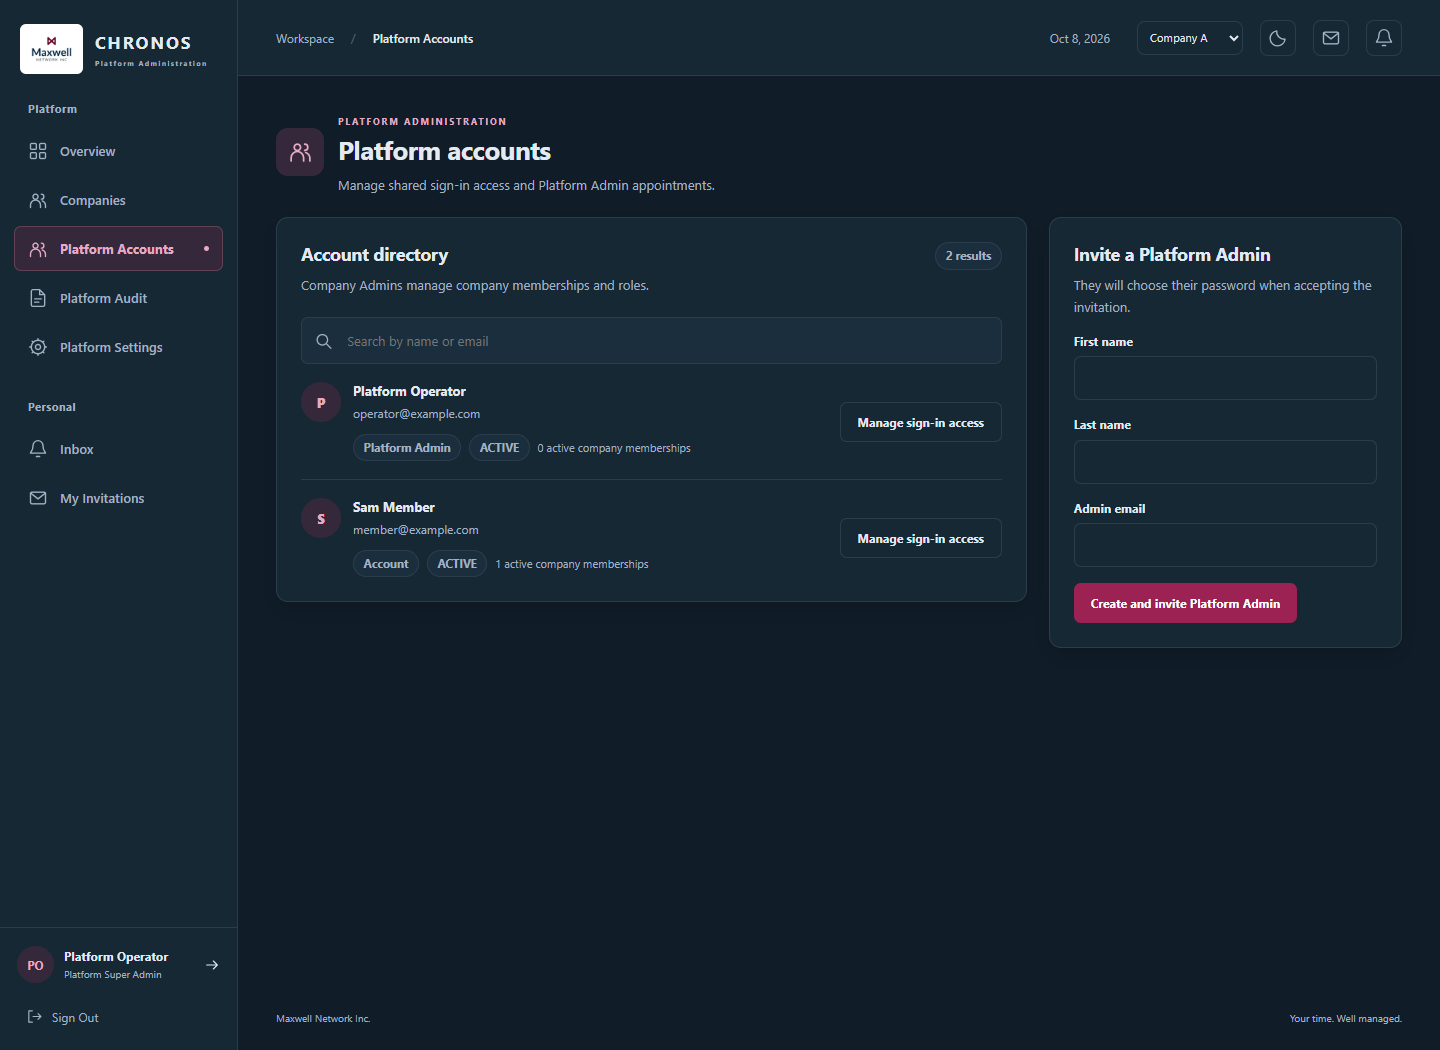
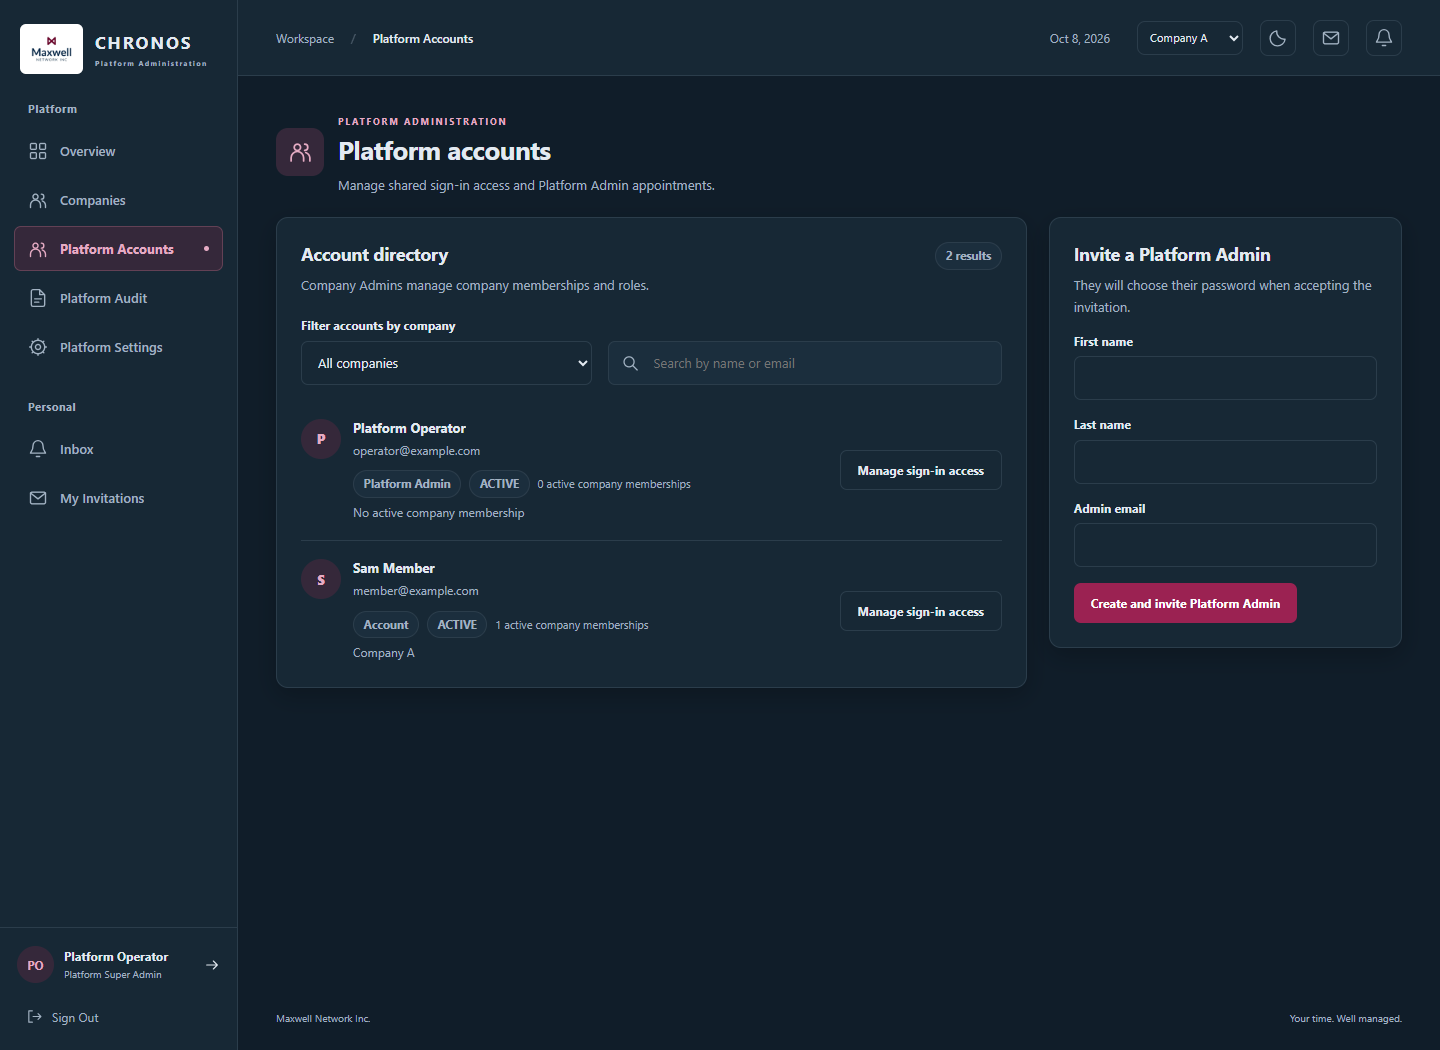
Filter platform accounts by active company membership

diff --git a/frontend/src/pages/PlatformAdministration.jsx b/frontend/src/pages/PlatformAdministration.jsx
@@ -71,16 +71,17 @@ export function PlatformCompanyTools(){
 function localDateTime(value){const date=new Date(value);return new Date(date.getTime()-date.getTimezoneOffset()*60000).toISOString().slice(0,16);}
 
 export function PlatformAccounts(){
+ const {companies=[]}=useCompany();const [companyFilter,setCompanyFilter]=useState('');
  const {user}=useAuth();const [rows,setRows]=useState([]),[query,setQuery]=useState(''),[revision,setRevision]=useState(0),[busy,setBusy]=useState(false),[error,setError]=useState(''),[notice,setNotice]=useState(''),[selected,setSelected]=useState(null),[action,setAction]=useState(''),[reason,setReason]=useState(''),[invite,setInvite]=useState({firstName:'',lastName:'',email:''});
- useEffect(()=>{let active=true;setRows([]);setBusy(true);setError('');api.accounts(query).then(r=>{if(active)setRows(r.data);}).catch(e=>{if(active)setError(failure(e));}).finally(()=>{if(active)setBusy(false);});return()=>{active=false;};},[query,revision]);
+ useEffect(()=>{let active=true;setRows([]);setBusy(true);setError('');api.accounts(query,companyFilter||undefined).then(r=>{if(active)setRows(r.data);}).catch(e=>{if(active)setError(failure(e));}).finally(()=>{if(active)setBusy(false);});return()=>{active=false;};},[query,companyFilter,revision]);
  async function act(callback,message){setBusy(true);setError('');setNotice('');try{await callback();setNotice(message);setSelected(null);setAction('');setReason('');setRevision(v=>v+1);window.dispatchEvent(new Event('chronos:company-memberships-changed'));}catch(e){setError(failure(e));}finally{setBusy(false);}}
  return <div className="page-container platform-page highlighted-workspace">
   <ScreenTitle title="Platform accounts" icon="users" eyebrow="PLATFORM ADMINISTRATION" description="Manage shared sign-in access and Platform Admin appointments."/>
   {error&&<p className="error-message" role="alert">{error} <button className="button button-secondary" onClick={()=>setRevision(v=>v+1)}>Reload accounts</button></p>}{notice&&<p className="success-message" role="status">{notice}</p>}
   {selected&&<form className="company-card platform-account-action" onSubmit={e=>{e.preventDefault();act(()=>api.account(selected.id,{action,reason,version:selected.platform_access_version}),'Account action completed.');}}><h2>Manage {selected.email}</h2><fieldset disabled={busy}><div className="platform-form-grid"><label className="company-field">Account action<select aria-label="Account action" required value={action} onChange={e=>setAction(e.target.value)}><option value="">Choose an action</option>{[['LOCK','Lock sign-in'],['UNLOCK','Unlock sign-in'],['DEACTIVATE','Deactivate account'],['REACTIVATE','Reactivate account'],['SIGN_OUT','Sign out all sessions'],['PROMOTE','Appoint Platform Admin'],['DEMOTE','Remove Platform Admin'],['INVITE','Resend admin setup invitation'],['REVOKE_INVITATION','Revoke admin setup invitation']].filter(([key])=>!(String(selected.id)===String(user.id)&&['LOCK','DEACTIVATE','DEMOTE'].includes(key))).map(([key,label])=><option key={key} value={key}>{label}</option>)}</select></label><label className="company-field">Reason for account action<textarea required maxLength={500} value={reason} onChange={e=>setReason(e.target.value)}/></label></div><p>Shared sign-in changes affect every company. Appointments require an activated account without active company memberships. Each last administrator is protected.</p><div className="platform-actions"><button className="button button-primary">Confirm account action</button><button className="button button-secondary" type="button" onClick={()=>setSelected(null)}>Cancel</button></div></fieldset></form>}
   <div className="platform-grid platform-accounts-grid">
-   <section className="company-card"><div className="company-section-heading"><div><h2>Account directory</h2><p>Company Admins manage company memberships and roles.</p></div><span className="company-pill">{rows.length} results</span></div><RecordSearch value={query} onChange={setQuery} label="Search accounts" placeholder="Search by name or email"/>
-    {busy&&!rows.length?<LoadingIndicator label="Loading accounts..."/>:<div className="platform-account-list">{rows.map(r=><article className="platform-list-row" key={r.id}><div className="platform-account-identity"><span className="company-person-avatar" aria-hidden="true">{(r.first_name||r.email).charAt(0)}</span><div><strong>{r.first_name} {r.last_name}</strong><p>{r.email}</p><div className="platform-badges"><span className="company-pill">{r.platform_admin?'Platform Admin':'Account'}</span><span className="company-pill">{r.is_active?r.admin_locked?'Locked':r.account_status:'Inactive'}</span><span>{r.active_memberships} active company memberships</span></div>{r.delivery_status&&<p>Invitation delivery: {r.delivery_status}</p>}</div></div><button className="button button-secondary" disabled={busy} onClick={()=>{setSelected(r);setAction('');setReason('');}}>Manage sign-in access</button></article>)}{!rows.length&&!error&&<p className="platform-empty">{query?'No accounts match your search.':'No accounts found.'}</p>}</div>}
+   <section className="company-card"><div className="company-section-heading"><div><h2>Account directory</h2><p>Company Admins manage company memberships and roles.</p></div><span className="company-pill">{rows.length} results</span></div><div className="platform-account-filters"><label className="company-field">Filter accounts by company<select value={companyFilter} onChange={e=>{setCompanyFilter(e.target.value);setSelected(null);setAction('');setReason('');setNotice('');}}><option value="">All companies</option>{companies.map(company=><option key={company.id} value={company.id}>{company.name}</option>)}</select></label><RecordSearch value={query} onChange={setQuery} label="Search accounts" placeholder="Search by name or email"/></div>
+    {busy&&!rows.length?<LoadingIndicator label="Loading accounts..."/>:<div className="platform-account-list">{rows.map(r=><article className="platform-list-row" key={r.id}><div className="platform-account-identity"><span className="company-person-avatar" aria-hidden="true">{(r.first_name||r.email).charAt(0)}</span><div><strong>{r.first_name} {r.last_name}</strong><p>{r.email}</p><div className="platform-badges"><span className="company-pill">{r.platform_admin?'Platform Admin':'Account'}</span><span className="company-pill">{r.is_active?r.admin_locked?'Locked':r.account_status:'Inactive'}</span><span>{r.active_memberships} active company memberships</span></div><p className="platform-account-companies">{r.companies?.length?r.companies.map(company=>company.name).join(' · '):'No active company membership'}</p>{r.delivery_status&&<p>Invitation delivery: {r.delivery_status}</p>}</div></div><button className="button button-secondary" disabled={busy} onClick={()=>{setSelected(r);setAction('');setReason('');}}>Manage sign-in access</button></article>)}{!rows.length&&!error&&<p className="platform-empty">{companyFilter?'No accounts match this company and search.':query?'No accounts match your search.':'No accounts found.'}</p>}</div>}
    </section>
    <form className="company-card" onSubmit={e=>{e.preventDefault();act(async()=>{await api.createAdmin(invite);setInvite({firstName:'',lastName:'',email:''});},'Platform Admin account created and invitation queued.');}}><h2>Invite a Platform Admin</h2><p>They will choose their password when accepting the invitation.</p><fieldset disabled={busy}><label className="company-field">First name<input required maxLength={100} autoComplete="given-name" value={invite.firstName} onChange={e=>setInvite({...invite,firstName:e.target.value})}/></label><label className="company-field">Last name<input required maxLength={100} autoComplete="family-name" value={invite.lastName} onChange={e=>setInvite({...invite,lastName:e.target.value})}/></label><label className="company-field">Admin email<input type="email" required maxLength={255} autoComplete="email" value={invite.email} onChange={e=>setInvite({...invite,email:e.target.value})}/></label><button className="button button-primary">Create and invite Platform Admin</button></fieldset></form>
   </div>

diff --git a/frontend/src/pages/PlatformAdministration.css b/frontend/src/pages/PlatformAdministration.css
@@ -79,3 +79,11 @@
 .platform-page .company-field small { color: var(--text-secondary); font-size: 11px; font-weight: 400; line-height: 1.5; }
 .platform-page .button.button-secondary { background: var(--surface-color); color: var(--text-primary); border: 1px solid var(--border-color); }
 .platform-page .button.button-secondary:hover:not(:disabled) { background: var(--surface-muted); }
+
+.platform-account-filters { display: grid; grid-template-columns: minmax(180px, .85fr) minmax(0, 1.15fr); align-items: end; gap: 1rem; margin-bottom: 1rem; }
+.platform-account-filters .record-search { margin: 0; }
+.platform-account-companies { overflow-wrap: anywhere; }
+@media (max-width: 700px) { .platform-account-filters { grid-template-columns: 1fr; } }
+
+.platform-page .platform-account-filters .company-field { margin-bottom: 0; }
+.platform-page .platform-account-filters .record-search { height: 44px; padding-block: 8px; }

diff --git a/frontend/src/api.js b/frontend/src/api.js
@@ -502,7 +502,7 @@ export const platformAdministrationAPI={
  plan:(id,data)=>apiClient.put(`/platform/companies/${id}/plan`,data),
  revokePlan:(id,data)=>apiClient.delete(`/platform/companies/${id}/plan`,{data}),
  status:(id,data)=>apiClient.put(`/platform/companies/${id}/status`,data),
- accounts:query=>apiClient.get('/platform/accounts',{params:{query}}),
+ accounts:(query,companyId)=>apiClient.get('/platform/accounts',{params:{query,companyId}}),
  account:(id,data)=>apiClient.post(`/platform/accounts/${id}/actions`,data),
  createAdmin:data=>apiClient.post('/platform/administrators',data),
  audit:page=>apiClient.get('/platform/audit',{params:{page}}),

diff --git a/backend/src/main/java/com/maxwell/chronos/service/PlatformAdministrationService.java b/backend/src/main/java/com/maxwell/chronos/service/PlatformAdministrationService.java
@@ -81,7 +81,21 @@ public class PlatformAdministrationService {
         db.update("INSERT INTO company_billing_activity(company_id,actor_id,action,reference) VALUES (?,?,'COMPANY_COMPLIMENTARY_PLAN_REVOKED',?)",company,actor,term.get("id").toString());
     }
     public void status(long company,String email,Status input){long actor=actor(email);lockedCompany(company,input.version());actor(email);db.update("UPDATE companies SET is_suspended=?,suspension_reason=?,platform_version=platform_version+1 WHERE id=?",input.suspended(),input.suspended()?input.reason():null,company);record(actor,company,null,input.suspended()?"COMPANY_SUSPENDED":"COMPANY_RESUMED",input.reason());}
-    public List<Map<String,Object>> accounts(String email,String query){actor(email);if(query!=null&&query.length()>200)throw new IllegalArgumentException("Search is too long");String search=query==null?"":query.trim();return db.queryForList("SELECT u.id,u.email,u.first_name,u.last_name,u.is_active,u.admin_locked,u.platform_access_version,CASE WHEN u.password_hash IS NULL THEN 'INVITED' ELSE 'ACTIVE' END account_status,EXISTS(SELECT 1 FROM role_assignments r WHERE r.user_id=u.id AND r.role_key='PLATFORM_ADMIN' AND r.removed_at IS NULL AND r.company_id IS NULL) platform_admin,(SELECT count(*) FROM company_memberships m WHERE m.user_id=u.id AND m.status='ACTIVE') active_memberships,(SELECT status FROM invitation_delivery d WHERE d.employee_id=u.id ORDER BY d.id DESC LIMIT 1) delivery_status FROM users u WHERE ?='' OR strpos(lower(u.email||' '||u.first_name||' '||u.last_name),lower(?))>0 ORDER BY u.email LIMIT 100",search,search);}
+    public List<Map<String,Object>> accounts(String email,String query){return accounts(email,query,null);}
+    public List<Map<String,Object>> accounts(String email,String query,Long companyId){
+        actor(email);
+        if(query!=null&&query.length()>200)throw new IllegalArgumentException("Search is too long");
+        if(companyId!=null){if(companyId<=0)throw new IllegalArgumentException("Choose a valid company");company(companyId,email);}
+        String search=query==null?"":query.trim();
+        var rows=db.queryForList("SELECT u.id,u.email,u.first_name,u.last_name,u.is_active,u.admin_locked,u.platform_access_version,CASE WHEN u.password_hash IS NULL THEN 'INVITED' ELSE 'ACTIVE' END account_status,EXISTS(SELECT 1 FROM role_assignments r WHERE r.user_id=u.id AND r.role_key='PLATFORM_ADMIN' AND r.removed_at IS NULL AND r.company_id IS NULL) platform_admin,(SELECT count(*) FROM company_memberships m WHERE m.user_id=u.id AND m.status='ACTIVE') active_memberships,(SELECT status FROM invitation_delivery d WHERE d.employee_id=u.id ORDER BY d.id DESC LIMIT 1) delivery_status FROM users u WHERE (?='' OR strpos(lower(u.email||' '||u.first_name||' '||u.last_name),lower(?))>0) AND (?::bigint IS NULL OR EXISTS(SELECT 1 FROM company_memberships filter_membership WHERE filter_membership.user_id=u.id AND filter_membership.company_id=? AND filter_membership.status='ACTIVE')) ORDER BY u.email LIMIT 100",search,search,companyId,companyId);
+        if(rows.isEmpty())return rows;
+        var placeholders=String.join(",",Collections.nCopies(rows.size(),"?"));
+        var memberships=db.queryForList("SELECT m.user_id,c.id,c.name FROM company_memberships m JOIN companies c ON c.id=m.company_id WHERE m.status='ACTIVE' AND m.user_id IN ("+placeholders+") ORDER BY c.name,c.id",rows.stream().map(row->row.get("id")).toArray());
+        var byUser=new HashMap<Long,List<Map<String,Object>>>();
+        for(var membership:memberships)byUser.computeIfAbsent(((Number)membership.get("user_id")).longValue(),key->new ArrayList<>()).add(Map.of("id",membership.get("id"),"name",membership.get("name")));
+        for(var row:rows)row.put("companies",byUser.getOrDefault(((Number)row.get("id")).longValue(),List.of()));
+        return rows;
+    }
     private void guardLastAdmin(long target){if(Boolean.TRUE.equals(db.queryForObject("SELECT EXISTS(SELECT 1 FROM role_assignments r JOIN users u ON u.id=r.user_id WHERE r.user_id=? AND r.role_key='PLATFORM_ADMIN' AND r.removed_at IS NULL AND u.is_active AND NOT u.admin_locked AND u.password_hash IS NOT NULL)",Boolean.class,target))&&!Boolean.TRUE.equals(db.queryForObject("SELECT EXISTS(SELECT 1 FROM role_assignments r JOIN users u ON u.id=r.user_id WHERE r.user_id<>? AND r.role_key='PLATFORM_ADMIN' AND r.company_id IS NULL AND r.removed_at IS NULL AND u.is_active AND NOT u.admin_locked AND u.password_hash IS NOT NULL)",Boolean.class,target)))throw new ResponseStatusException(HttpStatus.CONFLICT,"Appoint another available Platform Admin before removing this administrator's access.");}
     public void account(long target,String email,AccountAction input){
         long actor=actor(email);db.queryForObject("SELECT pg_advisory_xact_lock(hashtextextended('chronos-platform-admins',0))",Object.class);access.lockAccountAdministration(target);actor(email);

diff --git a/backend/src/main/java/com/maxwell/chronos/web/PlatformAdministrationController.java b/backend/src/main/java/com/maxwell/chronos/web/PlatformAdministrationController.java
@@ -25,7 +25,7 @@ public class PlatformAdministrationController {
     @GetMapping("/companies/{id}/admin-invitations") public ResponseEntity<?> invitations(@AuthenticationPrincipal Jwt jwt,@PathVariable long id){return response(service.adminInvitations(id,email(jwt)));}
     @PostMapping("/companies/{id}/admin-invitations/{invitation}/resend") public ResponseEntity<?> resend(@AuthenticationPrincipal Jwt jwt,@PathVariable long id,@PathVariable long invitation){service.company(id,email(jwt));companies.resendInvitation(id,invitation,users.findUserEntityByEmail(email(jwt)).getId());return response(null);}
     @DeleteMapping("/companies/{id}/admin-invitations/{invitation}") public ResponseEntity<?> revoke(@AuthenticationPrincipal Jwt jwt,@PathVariable long id,@PathVariable long invitation){service.company(id,email(jwt));companies.revokePlatformAdminInvitation(id,invitation,users.findUserEntityByEmail(email(jwt)).getId());return response(null);}
-    @GetMapping("/accounts") public ResponseEntity<?> accounts(@AuthenticationPrincipal Jwt jwt,@RequestParam(required=false) String query){return response(service.accounts(email(jwt),query));}
+    @GetMapping("/accounts") public ResponseEntity<?> accounts(@AuthenticationPrincipal Jwt jwt,@RequestParam(required=false) String query,@RequestParam(required=false) Long companyId){return response(companyId==null?service.accounts(email(jwt),query):service.accounts(email(jwt),query,companyId));}
     @PostMapping("/accounts/{id}/actions") public ResponseEntity<?> account(@AuthenticationPrincipal Jwt jwt,@PathVariable long id,@Valid @RequestBody PlatformAdministrationService.AccountAction input){service.account(id,email(jwt),input);return response(null);}
     @PostMapping("/administrators") public ResponseEntity<?> administrator(@AuthenticationPrincipal Jwt jwt,@Valid @RequestBody PlatformAdministrationService.AdminInput input){return response(Map.of("id",service.createAdmin(email(jwt),input)));}
     @GetMapping("/audit") public ResponseEntity<?> audit(@AuthenticationPrincipal Jwt jwt,@RequestParam(defaultValue="0") int page){return response(service.audit(email(jwt),page));}

diff --git a/backend/src/test/java/com/maxwell/chronos/service/PlatformCompletionLocalDbTest.java b/backend/src/test/java/com/maxwell/chronos/service/PlatformCompletionLocalDbTest.java
@@ -82,4 +82,15 @@ class PlatformCompletionLocalDbTest {
   platform.plan(a,platformEmail,new PlatformAdministrationService.Plan("PRO_PLUS",7,175,1L,"Owned company","COMPLIMENTARY",null));
   assertTrue(db.queryForObject("SELECT is_suspended FROM companies WHERE id=?",Boolean.class,a));assertFalse(access.hasCompanyRole(a,admin,"COMPANY_ADMIN"));assertEquals("COMPLIMENTARY",new CompanyEntitlements(db).state(a).source());
  }
+ @Test void accountCompanyFilterCombinesSearchAndActiveMemberships(){
+  var all=platform.accounts(platformEmail,memberEmail);assertEquals(1,all.size());
+  assertEquals(2,((List<?>)all.getFirst().get("companies")).size());
+  var companyA=platform.accounts(platformEmail,memberEmail,a);assertEquals(1,companyA.size());assertEquals(member,((Number)companyA.getFirst().get("id")).longValue());
+  db.update("UPDATE company_memberships SET status='REMOVED' WHERE company_id=? AND user_id=?",b,member);
+  assertTrue(platform.accounts(platformEmail,memberEmail,b).isEmpty());
+  var remaining=platform.accounts(platformEmail,memberEmail,a);assertEquals(1,((List<?>)remaining.getFirst().get("companies")).size());
+  assertTrue(platform.accounts(platformEmail,platformEmail,a).isEmpty());
+  assertThrows(AccessDeniedException.class,()->platform.accounts(adminEmail,null,a));
+  assertThrows(IllegalArgumentException.class,()->platform.accounts(platformEmail,null,0L));
+ }
 }

diff --git a/backend/src/test/java/com/maxwell/chronos/web/PlatformAdministrationControllerTest.java b/backend/src/test/java/com/maxwell/chronos/web/PlatformAdministrationControllerTest.java
@@ -36,4 +36,10 @@ class PlatformAdministrationControllerTest {
   verify(platform).revokeGrant(eq(12L),eq(actor.getEmail()),argThat(in->in.version()==4L));
   mvc.perform(delete("/platform/companies/12/plan").with(token()).contentType("application/json").content("{\"reason\":\"Missing revision\"}")).andExpect(status().isBadRequest());
  }
+ @Test void forwardsCompanyAndSearchFiltersToAuthorizedAccountDirectory() throws Exception {
+  when(platform.accounts(actor.getEmail(),"Sam",12L)).thenReturn(List.of(Map.of("id",8,"companies",List.of(Map.of("id",12,"name","Company A")))));
+  mvc.perform(get("/platform/accounts").param("companyId","12").param("query","Sam").with(token())).andExpect(status().isOk()).andExpect(header().string("Cache-Control","no-store")).andExpect(jsonPath("$[0].companies[0].name").value("Company A"));
+  verify(platform).accounts(actor.getEmail(),"Sam",12L);
+  mvc.perform(get("/platform/accounts").param("companyId","invalid").with(token())).andExpect(status().isBadRequest());
+ }
 }
